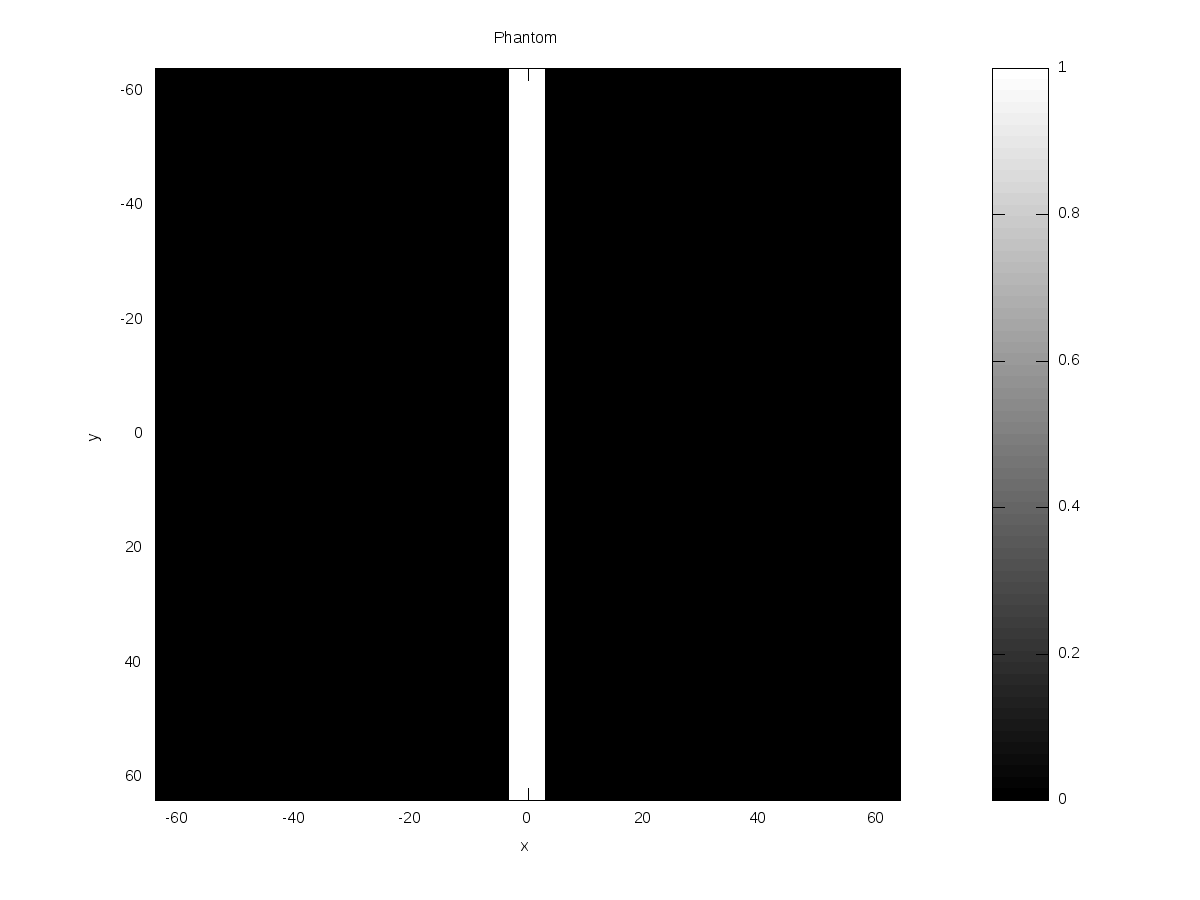
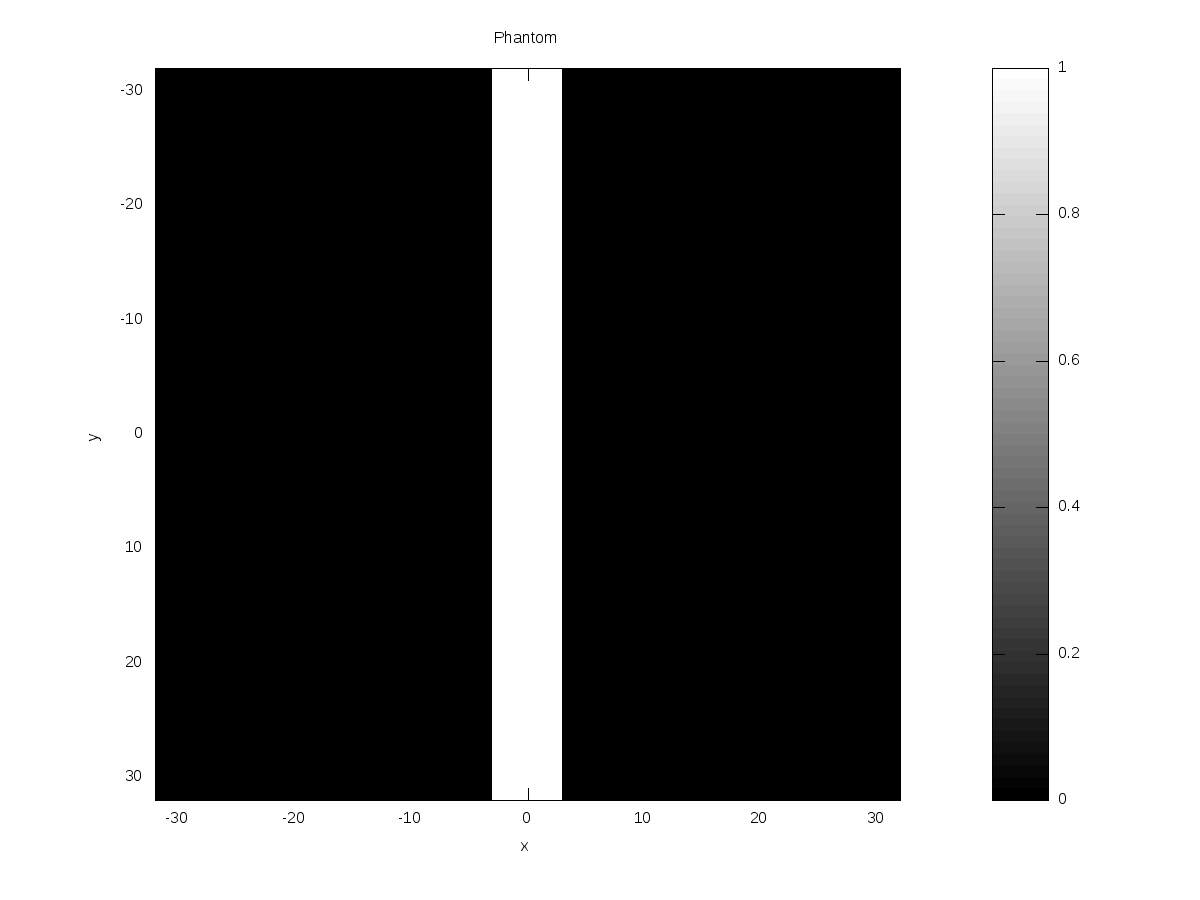
Fix scaling problem of omega_x and omega_y

Changed region(s): [[0.4008, 0.0622, 0.4933, 0.9022], [0.6167, 0.9022, 0.6475, 0.9333], [0.0925, 0.7156, 0.1233, 0.7467]]

diff --git a/branches/run.m b/branches/run.m
@@ -8,11 +8,11 @@ DEBUG=1;
 %SNR=0.1;
 
 %% Interpolation method: nearest / linear / cubic
-interp_m='linear';
+interp_m='nearest';
 
 %% Size of phantom and reconstructed image
 % N is the number of rows and columns in P, which is 256 respectively
-N=128;
+N=64;
 
 %%%%%%%%%%%%%%%%%%%%%%%%%%%%%%%%%%%%%%%%%%%%%%%%%%%%%%%%%%%%%%%%%%%%%
 %% Create Phantom P
@@ -109,28 +109,13 @@ print -dpng 3b_fourier_radon_imag.png
 label_WX = WW.*cosd(THETA);
 label_WY = WW.*sind(THETA);
 
-%% Determine range of the desired rectolinear scale
-x = linspace(-N/2,N/2,N);
-y = x;
-omega_x_max=2*pi/dx*max(x)/sqrt(2);
-omega_x = linspace(-omega_x_max,omega_x_max,N);
-omega_y = omega_x;
+%% Determine range of the desired rectangular coordinates
+omega_x = omega;
+omega_y = omega;
 [WX WY]=meshgrid( omega_x , omega_y );
-
-%% DEBUG: test label WX,WY
-if(DEBUG)
-figure(95)
-surf(THETA,WW,abs(FRf)),colorbar,colormap(jet)
-title('DEBUG: polar coordinates, Absolute Value')
-xlabel('theta'),ylabel('omega')
-print -dpng 4c_fourier_xy_abs.png
-
-figure(96)
-surf(label_WX,label_WY,abs(FRf)),colorbar,colormap(jet)
-title('DEBUG: rectangular coordinates, Absolute Value')
-xlabel('omega_x'),ylabel('omega_y')
-print -dpng 4c_fourier_xy_abs.png
-end
+d_omega=mean(diff(omega));
+x=2*pi/d_omega .* omega;
+y=x;
 
 %% Prepare data for interpolation
 %reshape matrix to array in columns
@@ -138,14 +123,25 @@ end
 WX_array=reshape(label_WX,cols*rows,1);
 WY_array=reshape(label_WY,cols*rows,1);
 FRf_array=reshape(FRf,cols*rows,1);
-%XYZ_data=horzcat(WX_array,WY_array,FRf_array);
-
-%interpolation algorithm requires the data to be monotonic, so need sorting
-%XYZ_daya=sortrows(XYZ_data);
 
 %% Apply interpolation
 F2f = griddata(WX_array,WY_array,FRf_array,WX,WY,interp_m);
 %F2f(isnan(F2f))=0;        % set all NaN (Not a Number) error to zero
+
+%% DEBUG: test label WX,WY
+if(DEBUG)
+figure(95)
+surf(label_WX,label_WY,abs(FRf)),colorbar,colormap(jet)
+title('DEBUG: Radon Fourier image before interpolation, Absolute Value')
+xlabel('theta'),ylabel('omega')
+print -dpng 4c_fourier_polar_abs.png
+
+figure(96)
+surf(WX,WY,abs(F2f)),colorbar,colormap(jet)
+title('DEBUG: Radon Fourier image after interpolation, Absolute Value')
+xlabel('omega_x'),ylabel('omega_y')
+print -dpng 4d_fourier_xy_abs.png
+end
 
 %% Save image
 figure(5)
